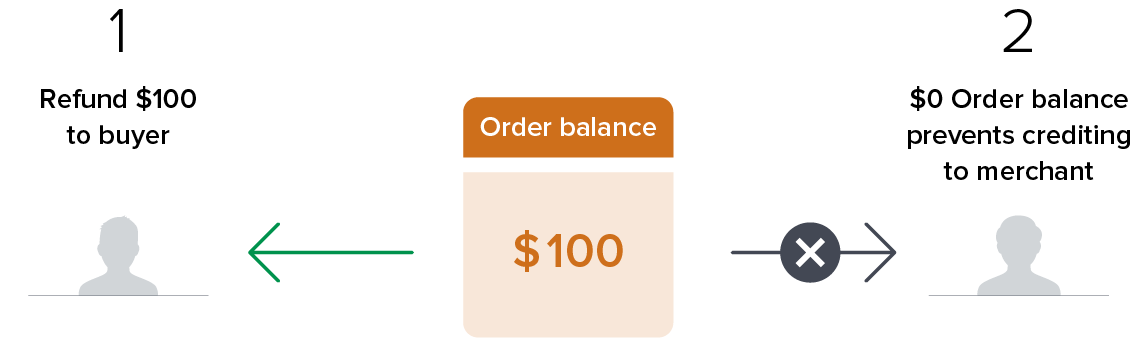
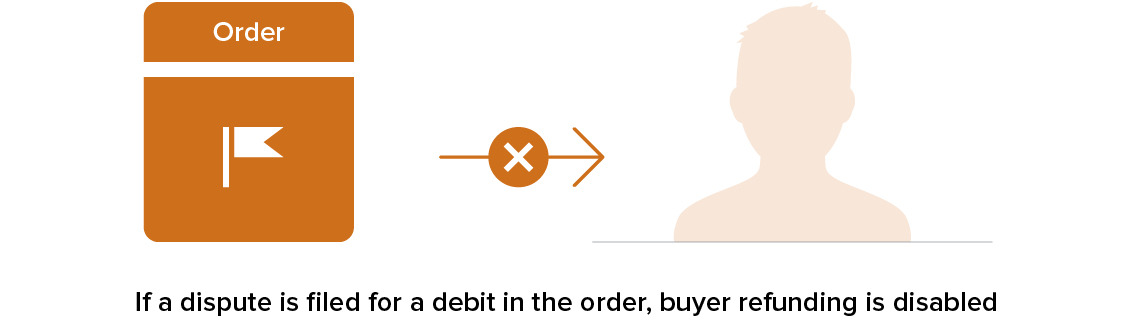
Update account reconciliation content

diff --git a/static/less/ach-debits.less b/static/less/ach-debits.less
@@ -182,18 +182,11 @@ body.layout-v4 {
 
         .section-side-body {
             margin-left: 0px;
-            margin-top: 25px;
         }
 
         .section-side-link {
             .sl-sb;
             margin-top: 15px;
-        }
-
-        .spacer {
-            margin: 0px;
-            border-top: 1px solid @gray3;
-            padding-right: 30px;
         }
 
         .content {

diff --git a/static/less/root.less b/static/less/root.less
@@ -132,6 +132,7 @@ section {
       width: 230px;
       border-top: 5px solid @black;
       padding-top: 5px;
+      margin-bottom: 25px;
       float: left;
 
       span {
@@ -149,6 +150,10 @@ section {
     color: @gray7;
     margin-top: 20px;
     margin-right: 20px;
+
+    &:first-of-type {
+      margin-top: 0;
+    }
   }
 
   .section-description {

diff --git a/static/less/account-reconciliation.less b/static/less/account-reconciliation.less
@@ -86,6 +86,12 @@
     background-image: url(/images/account-reconciliation/account_reconciliation_losses.png);
     background-size: contain;
     width: 570px;
-    height: 170px;
+    height: 160px;
+  }
+
+  .code-sample {
+    .title {
+      background-color: @burntOrange100;
+    }
   }
 }

diff --git a/contents/account-reconciliation.md b/contents/account-reconciliation.md
@@ -6,7 +6,7 @@ pageTitle: Account Reconciliation
 body_class: account-reconciliation
 
 subtitle:
-  heading: Use orders to reconcile incoming funds from the buyers with outgoing funds to the merchants.
+  heading: Use orders to reconcile incoming funds from buyers with outgoing funds to merchants.
   bodyText: Whether you&#8217re a goods/services marketplace or a crowdfunding/donation platform, Balanced enables you to link related transactions and maintain a separate order balance to help reconcile your accounting.
 
 intro:
@@ -31,7 +31,7 @@ features:
     body: |
       Since each order maintains a separate balance, you cannot use unreferenced funds to issue credits.
       
-      Orders also offer additional safeguards for disputes. Once a dispute is filed, orders prevent you from unknowingly refunding the buyer as the dispute process is pending.
+      Orders also offer additional safeguards for disputes. Once a dispute is filed, the refund function will be disabled to prevent you from unknowingly refunding the buyer as the dispute process is pending.
 
     class: account-reconciliation-losses
   - title: Combine payouts from multiple orders
